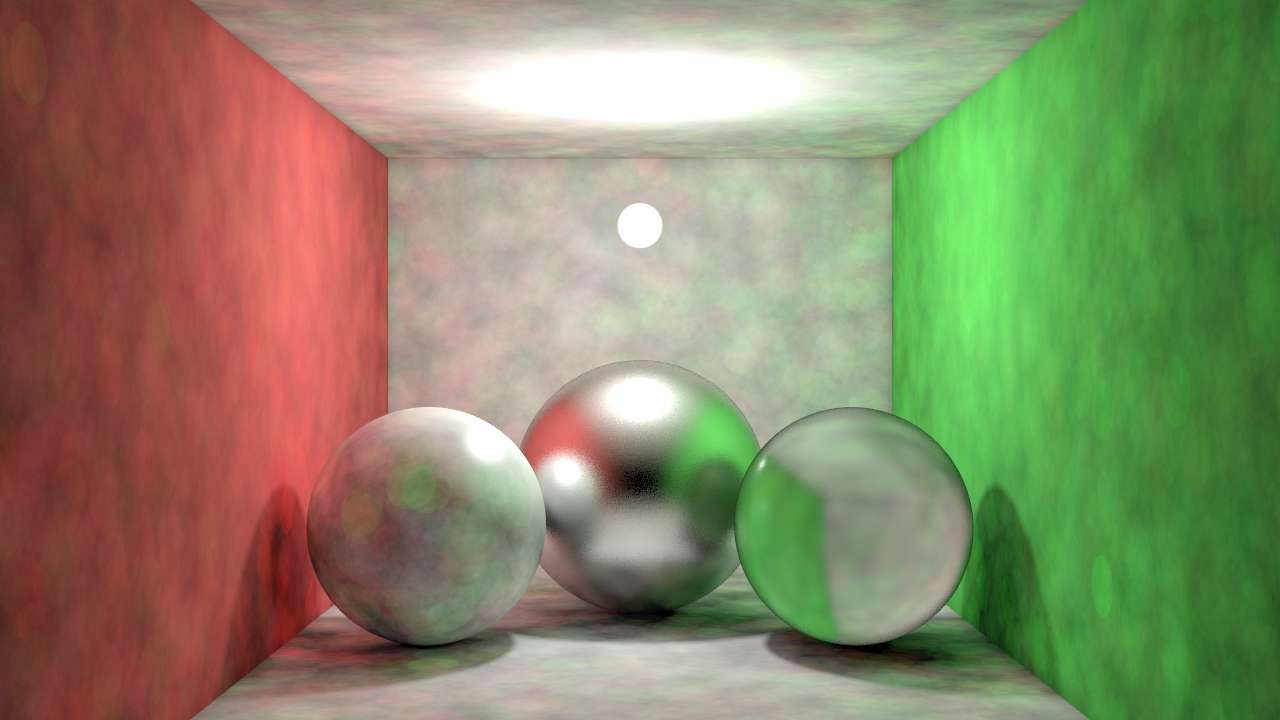
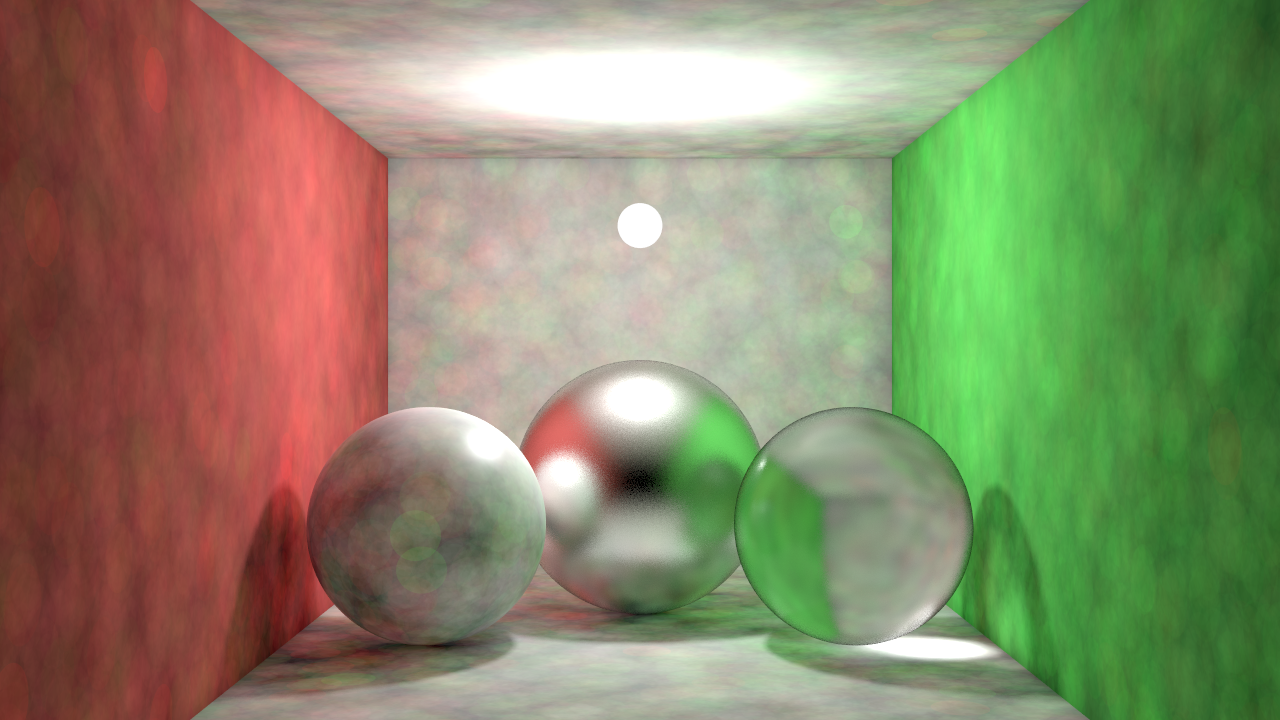
Fixed how I fill up photon map for indirect only

diff --git a/src/main.cpp b/src/main.cpp
@@ -334,10 +334,7 @@ int main()
                     break;
 
                 const Material* material{ hInfo.node->GetMaterial() };
-                if (!material->IsPhotonSurface())
-                    break;
-
-                if (!photonMap.AddPhoton(hInfo.p, photonRay.dir, c))
+                if (material->IsPhotonSurface() && !photonMap.AddPhoton(hInfo.p, photonRay.dir, c))
                 {
                     mapIsFull = true;
                     break;
@@ -377,24 +374,32 @@ int main()
                 if (!renderer.TraceRay(photonRay, hInfo) || hInfo.light)
                     break;
 
+                SamplerInfo sInfo{ tileThreads::rng };
+                sInfo.SetHit(photonRay, hInfo);
+                DirSampler::Info info{};
+                Vec3f newDir{};
                 const Material* material{ hInfo.node->GetMaterial() };
-                if (!material->IsPhotonSurface())
-                    break;
+                const bool bounce{ material->GenerateSample(sInfo, newDir, info) };
 
-                if (!firstHit && !photonMap.AddPhoton(hInfo.p, photonRay.dir, c))
+                if (firstHit)
+                {
+                    if (!bounce)
+                        break;
+
+                    firstHit = false;
+                    photonRay.dir = newDir;
+                    photonRay.p = hInfo.p;
+                    c *= info.mult / info.prob;
+                    continue;
+                }
+
+                if (material->IsPhotonSurface() && !photonMap.AddPhoton(hInfo.p, photonRay.dir, c))
                 {
                     mapIsFull = true;
                     break;
                 }
 
-                firstHit = false;
-
-                SamplerInfo sInfo{ tileThreads::rng };
-                sInfo.SetHit(photonRay, hInfo);
-
-                DirSampler::Info info{};
-                Vec3f newDir{};
-                if (!material->GenerateSample(sInfo, newDir, info))
+                if (!bounce)
                     break;
 
                 photonRay.dir = newDir;
